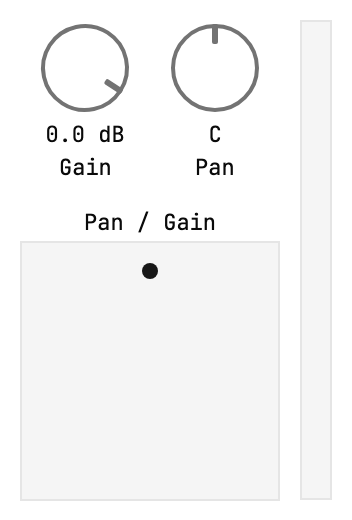
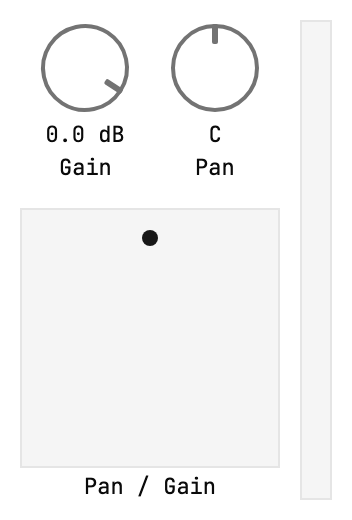
Vizia: move xy pad label to bottom (consistent with other gui backends)

diff --git a/crates/truce-vizia/src/widgets.rs b/crates/truce-vizia/src/widgets.rs
@@ -458,7 +458,6 @@ pub fn param_xy_pad<P: Params + 'static>(
     let lens_for_up = lens.clone();
 
     VStack::new(cx, move |cx| {
-        Label::new(cx, label_text);
         ZStack::new(cx, move |cx| {
             Element::new(cx)
                 .class("truce-xy-pad-dot")
@@ -510,6 +509,7 @@ pub fn param_xy_pad<P: Params + 'static>(
             lens_for_up.end_edit(x_u32);
             lens_for_up.end_edit(y_u32);
         });
+        Label::new(cx, label_text);
     })
     .class("truce-xy-pad-cell")
     .width(Auto)